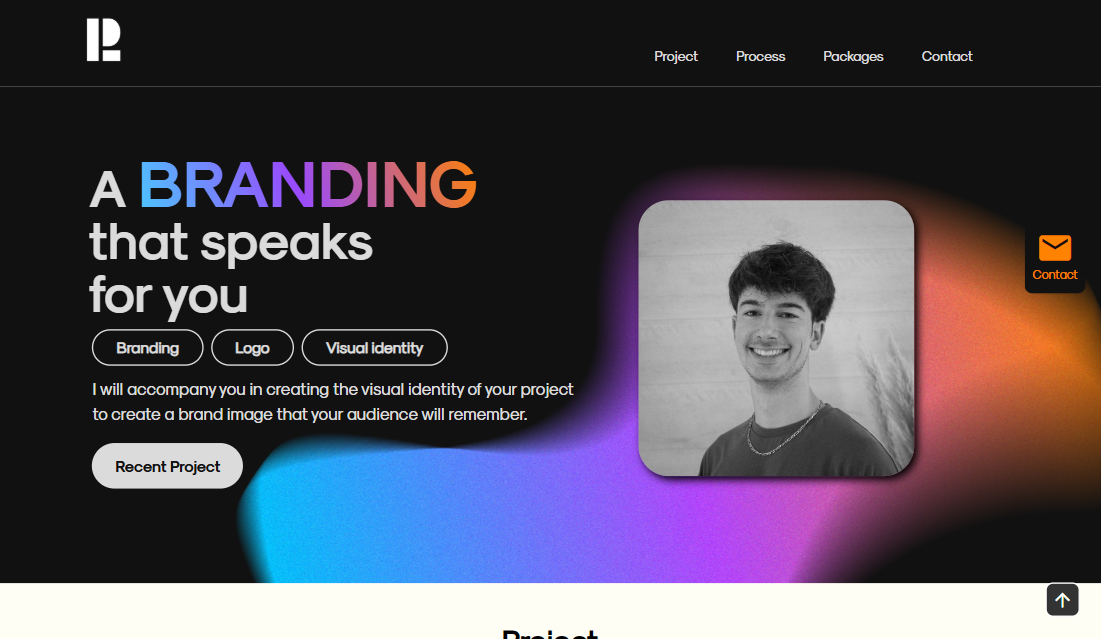
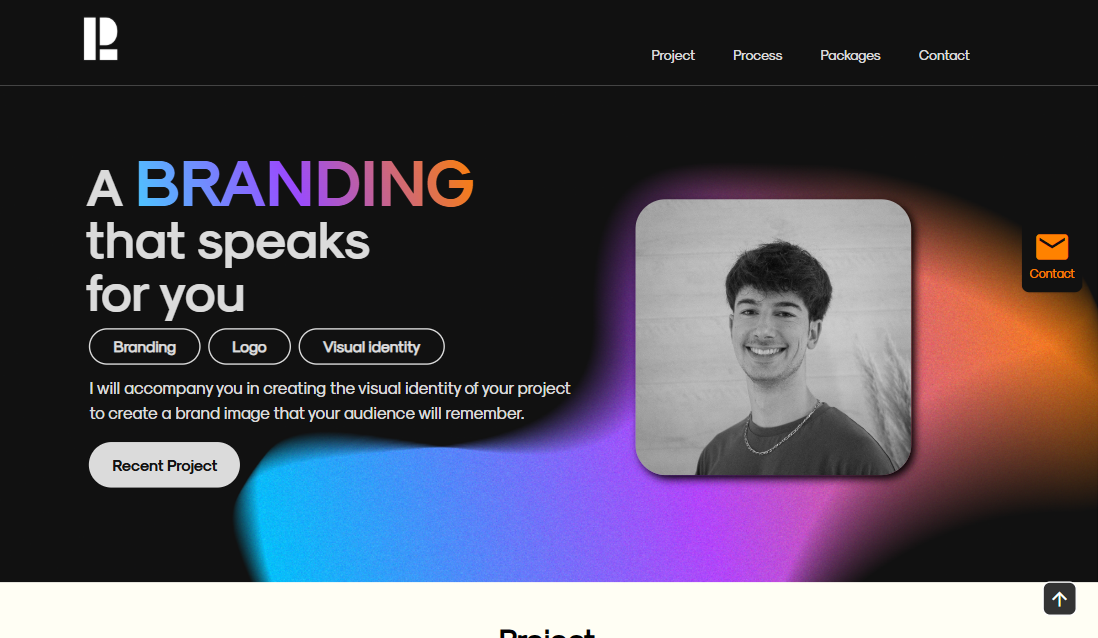
readme

diff --git a/README.md b/README.md
@@ -5,7 +5,7 @@
 ## 🔗 데모
 
 🌐 [데모 사이트 바로가기](https://ryucandoit-lucas-provost.netlify.app/)
-![대표이미지](./images/lucas_representative.png)
+![대표이미지](./images/readme/lucas_representative.png)
 
 ---
 
